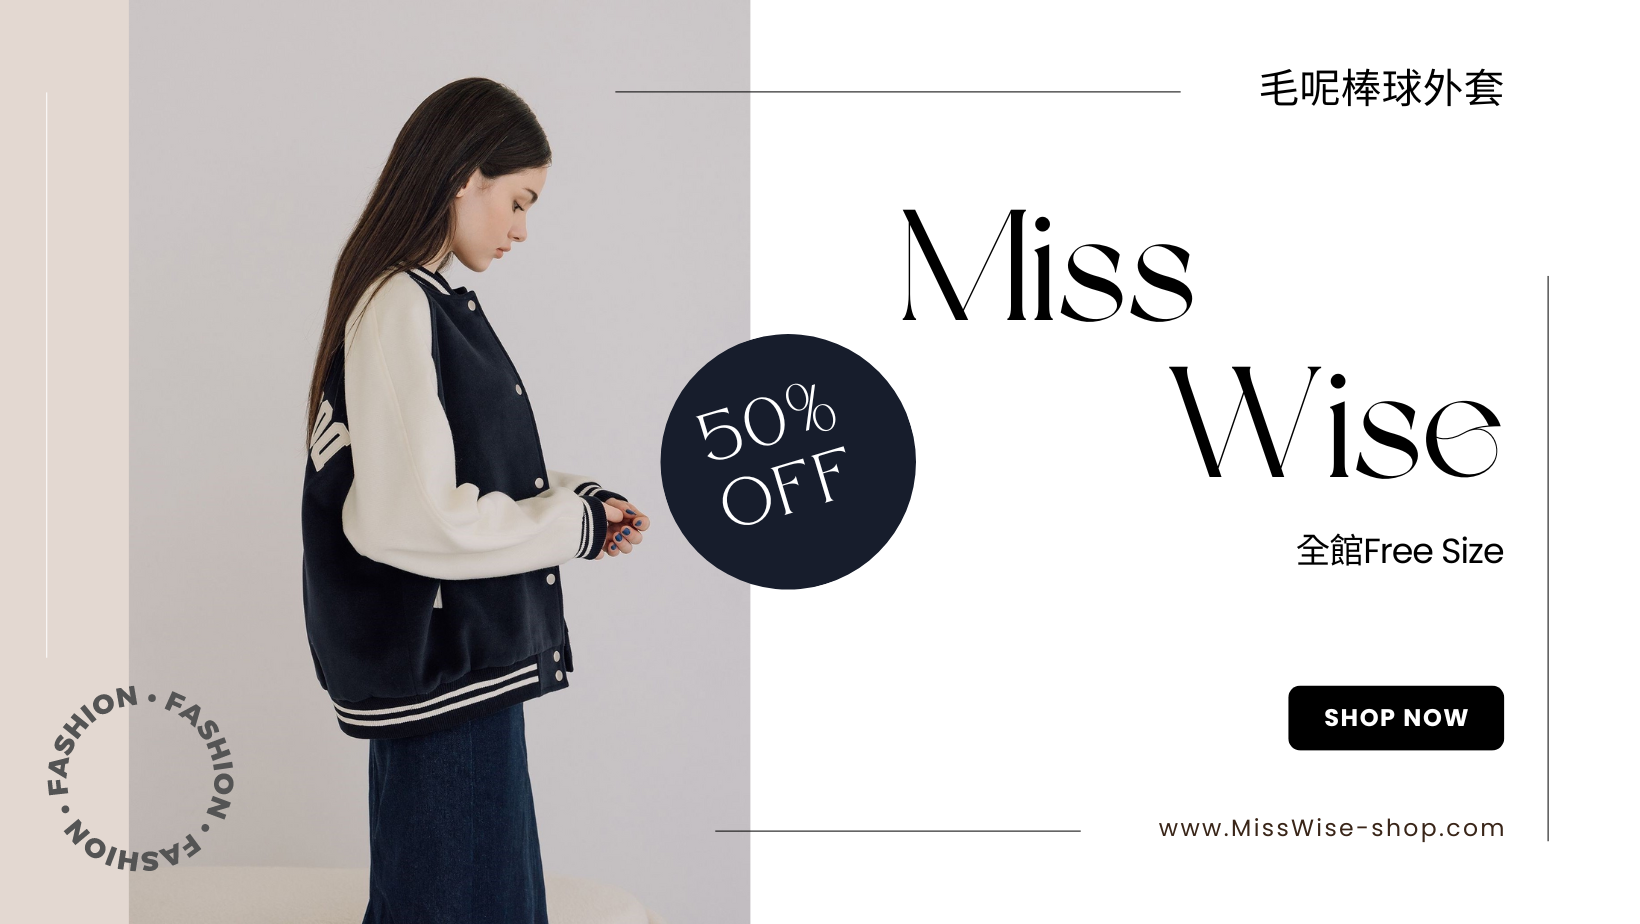
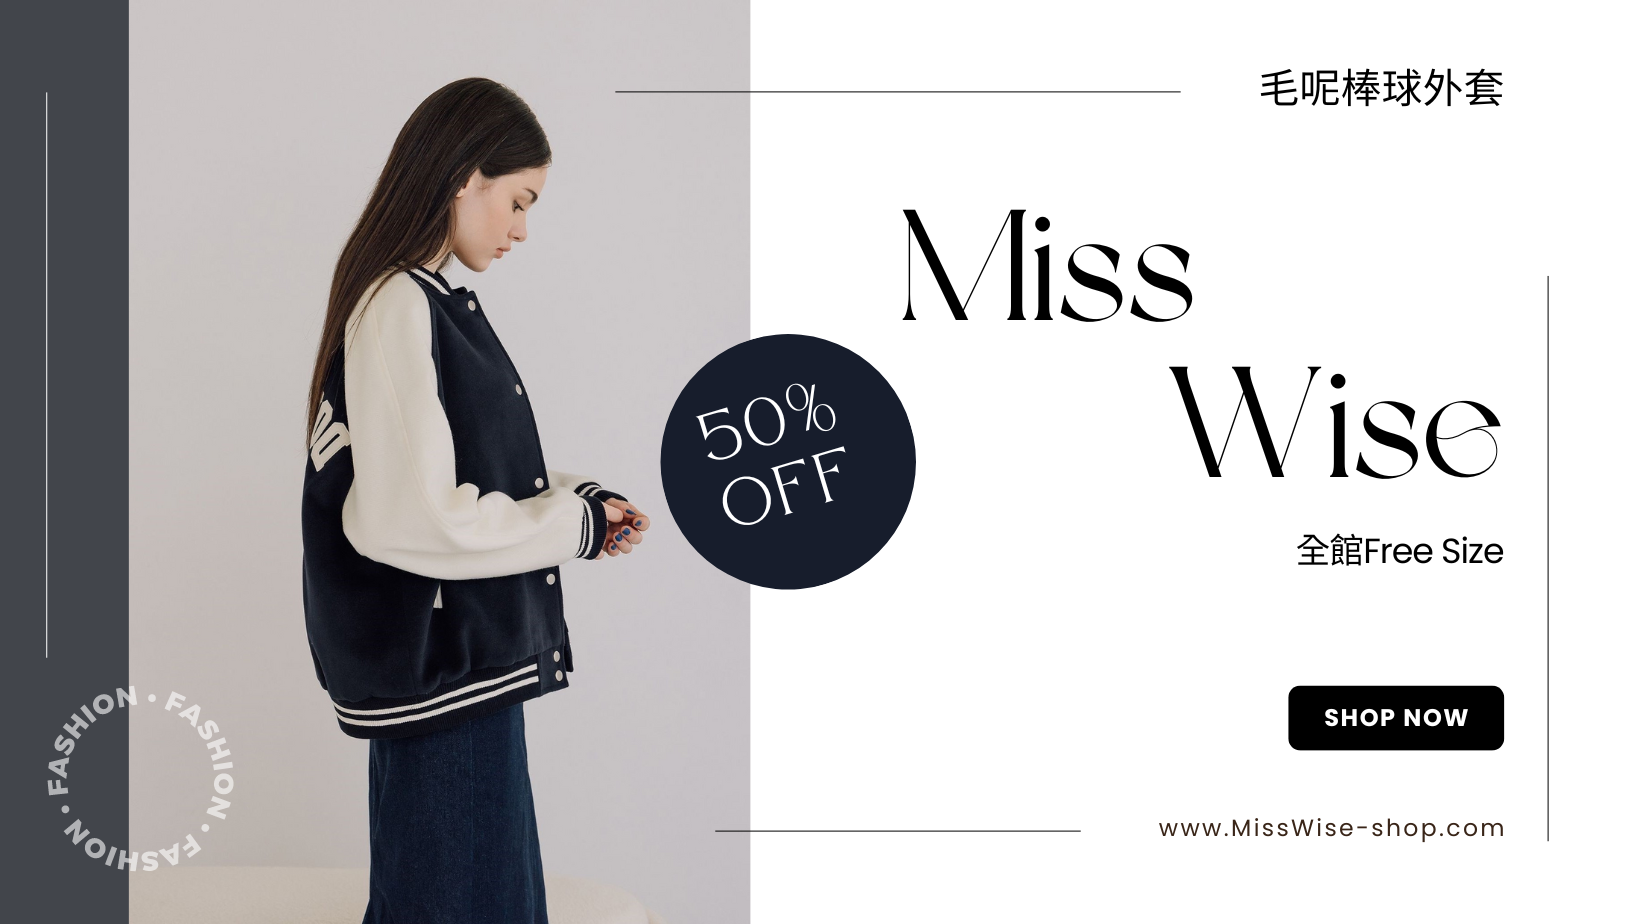
各種修改

Changed region(s): [[0.0, 0.0, 0.1244, 1.0], [0.1244, 0.7879, 0.1555, 0.8788]]

diff --git a/assets/css/index.css b/assets/css/index.css
@@ -67,15 +67,6 @@ body {
     font-family: "標楷體";
     margin: auto;
 }
-.smw { /*賣家Miss Wise*/
-    text-indent: 2cm;
-    text-align: center;
-    font-size: 30px;
-    font-style: italic;
-    color: #463f3a;
-    font-family: "標楷體";
-    margin: auto;
-}
 
 .icon { /*右上角兩圖示*/
     width: 30px;
@@ -131,6 +122,7 @@ body {
 
 
 h2 {
+    color: #86756a;
     text-align: center;
     font-size: 25px;
     font-family: "標楷體";
@@ -360,17 +352,18 @@ a{ /*隱藏超連結底線*/
     display: none;
 }
 
-img {
-    vertical-align: middle;
+.timee{
+    background-color: white;
 }
 
 .mySlides img{
-    height: 530px;
+    height: 500px;
+    width: 820px;
 }
 
 /* Slideshow container */
 .slideshow-container {
-  max-width: 1200px;
+  max-width: 820px;
   position: relative;
   margin: auto;
 }
@@ -619,15 +612,16 @@ h1 { /*購物車*/
     padding-bottom: 20px;
 }
 
-footer{
+footer{ /*底色*/
     background-color: #9d858d;
     width: 100%;
-    height: 50px;
+    height: 70px;
     text-align: center;
     color: rgb(255, 255, 255);
     position: absolute;
     flex: 0 0 auto;
 }
+
 
 .cb{ /*購物車核選方塊*/
     position: relative;
@@ -737,27 +731,6 @@ footer{
     opacity: 1;
 }
 
-.star { /*不會動的星等*/
-    font-size: 0;
-    white-space: nowrap;
-    display: inline-block;
-    width: 150px;
-    height: 30px;
-    overflow: hidden;
-    position: relative;
[1 lines of base64/hex data omitted]
-    background-size: contain;
-}
-.star input {
-    opacity: 0;
-    display: inline-block;
-    width: 20%;
-    height: 100%;
-    margin: 0;
-    padding: 0;
-    z-index: 2;
-    position: relative;
-}
 
 .commentstar{
     text-align: right;
@@ -770,14 +743,14 @@ footer{
 }
 
 .commentsubmit{
-    background-color: #f6cbcb;
+    background-color:#b3a9a0;
     border: 1px #f1f1f1 solid;
     color: white;
     margin: 30px 35px 0px 0px;
     position: relative;
     font-size: 20px;
     border-radius: 5px;
-    left: 40%;
+    left: 43%;
     padding-left: 55px;
     padding-right: 55px;
     cursor: pointer;

diff --git a/center.html b/center.html
@@ -16,17 +16,17 @@
             <section style="display: flex;justify-content: space-between;">
                 <div id="mySidepanel" class="sidepanel">
                     <a href="javascript:void(0)" class="closebtn" onclick="closeNav()">&times;</a>
+                    <a href="about.html">關於我們</a>
                     <a href="index.html">首頁</a>
-                    <a href="#top">上衣</a>
-                    <a href="#coat">外套</a>
-                    <a href="#button">褲子</a>
-                    <a href="#skirt">裙子</a>
-                    <a href="#accessory">配件</a>
+                    <a href="item.html#top">上衣</a>
+                    <a href="item.html#coat">外套</a>
+                    <a href="item.html#button">褲子&裙子</a>
+                    <a href="item.html#accessory">配件</a>
                     <br><br><br><br>
                     <hr>
                     <a href="login.html">登入</a>
                     <a href="enroll.html">註冊</a>
-                    <a href="">登出</a>
+                    <a href="#">登出</a>
                 </div>
 
                 <button class="openbtn" onclick="openNav()">&#9776; </button>

diff --git a/order.html b/order.html
@@ -27,17 +27,17 @@
             <section style="display: flex;justify-content: space-between;">
                 <div id="mySidepanel" class="sidepanel">
                     <a href="javascript:void(0)" class="closebtn" onclick="closeNav()">&times;</a>
+                    <a href="about.html">關於我們</a>
                     <a href="index.html">首頁</a>
-                    <a href="#top">上衣</a>
-                    <a href="#coat">外套</a>
-                    <a href="#button">褲子</a>
-                    <a href="#skirt">裙子</a>
-                    <a href="#accessory">配件</a>
+                    <a href="item.html#top">上衣</a>
+                    <a href="item.html#coat">外套</a>
+                    <a href="item.html#button">褲子&裙子</a>
+                    <a href="item.html#accessory">配件</a>
                     <br><br><br><br>
                     <hr>
                     <a href="login.html">登入</a>
                     <a href="enroll.html">註冊</a>
-                    <a href="">登出</a>
+                    <a href="#">登出</a>
                 </div>
 
                 <button class="openbtn" onclick="openNav()">&#9776; </button>

diff --git a/onpd.html b/onpd.html
@@ -31,10 +31,12 @@
                     }
                 </script>
                 <img class="logo" src="./assets/images/logo.png" alt="">
-                <h1 class="smw">Miss Wise</h1>
+                <h1 class="mw">Miss Wise</h1>
                 <form action="post">
-                    <input type="search" class="siconbox">
-                    <botton><img class="siconser" src="./assets/images/search.png" alt="搜尋"></botton>
+                    <img class="icon" src="./assets/images/me.png" alt="個資">
+                    <img class="icon" src="./assets/images/car.png" alt="購物車">
+                    <input type="search" class="iconbox">
+                    <botton><img class="iconser" src="./assets/images/search.png" alt="搜尋"></botton>
                 </form>
             </section>
     </nav>
@@ -193,6 +195,9 @@
                 </div>
             </a>
         </div>
-    </section>
+    </section><br>
+    <footer id="contact">
+        <p>Copyright &copy Miss Wise <br>瀏覽次數:10<br>From:CYCUIM</p>
+    </footer>
 </body>
 </html>

diff --git a/unpd.html b/unpd.html
@@ -31,10 +31,12 @@
                     }
                 </script>
                 <img class="logo" src="./assets/images/logo.png" alt="">
-                <h1 class="smw">Miss Wise</h1>
+                <h1 class="mw">Miss Wise</h1>
                 <form action="post">
-                    <input type="search" class="siconbox">
-                    <botton><img class="siconser" src="./assets/images/search.png" alt="搜尋"></botton>
+                    <img class="icon" src="./assets/images/me.png" alt="個資">
+                    <img class="icon" src="./assets/images/car.png" alt="購物車">
+                    <input type="search" class="iconbox">
+                    <botton><img class="iconser" src="./assets/images/search.png" alt="搜尋"></botton>
                 </form>
             </section>
     </nav>

diff --git a/sellerlog.html b/sellerlog.html
@@ -32,10 +32,12 @@
                     }
                 </script>
                 <img class="logo" src="./assets/images/logo.png" alt="">
-                <h1 class="smw">登入</h1>
+                <h1 class="mw">登入</h1>
                 <form action="post">
-                    <input type="search" class="siconbox">
-                    <botton><img class="siconser" src="./assets/images/search.png" alt="搜尋"></botton>
+                    <img class="icon" src="./assets/images/me.png" alt="個資">
+                    <img class="icon" src="./assets/images/car.png" alt="購物車">
+                    <input type="search" class="iconbox">
+                    <botton><img class="iconser" src="./assets/images/search.png" alt="搜尋"></botton>
                 </form>
             </section>
     </nav>

diff --git a/sellerpd.html b/sellerpd.html
@@ -34,8 +34,10 @@
                     <img class="logo" src="./assets/images/logo.png" alt="">
                     <h1 class="mw">Miss Wise</h1>
                     <form action="post">
-                        <input type="search" class="siconbox">
-                        <botton><img class="siconser" src="./assets/images/search.png" alt="搜尋"></botton>
+                        <img class="icon" src="./assets/images/me.png" alt="個資">
+                        <img class="icon" src="./assets/images/car.png" alt="購物車">
+                        <input type="search" class="iconbox">
+                        <botton><img class="iconser" src="./assets/images/search.png" alt="搜尋"></botton>
                     </form>
                 </section>
         </nav>

diff --git a/sellerunpd.html b/sellerunpd.html
@@ -35,8 +35,10 @@
                     <img class="logo" src="./assets/images/logo.png" alt="">
                     <h1 class="mw">Miss Wise</h1>
                     <form action="post">
-                        <input type="search" class="siconbox">
-                        <botton><img class="siconser" src="./assets/images/search.png" alt="搜尋"></botton>
+                        <img class="icon" src="./assets/images/me.png" alt="個資">
+                        <img class="icon" src="./assets/images/car.png" alt="購物車">
+                        <input type="search" class="iconbox">
+                        <botton><img class="iconser" src="./assets/images/search.png" alt="搜尋"></botton>
                     </form>
                 </section>
         </nav>

diff --git a/sellerunpd1.html b/sellerunpd1.html
@@ -35,8 +35,10 @@
                     <img class="logo" src="./assets/images/logo.png" alt="">
                     <h1 class="mw">Miss Wise</h1>
                     <form action="post">
-                        <input type="search" class="siconbox">
-                        <botton><img class="siconser" src="./assets/images/search.png" alt="搜尋"></botton>
+                        <img class="icon" src="./assets/images/me.png" alt="個資">
+                        <img class="icon" src="./assets/images/car.png" alt="購物車">
+                        <input type="search" class="iconbox">
+                        <botton><img class="iconser" src="./assets/images/search.png" alt="搜尋"></botton>
                     </form>
                 </section>
         </nav>

diff --git a/index.html b/index.html
@@ -52,7 +52,7 @@
             </section>
     </nav>
     <hr class="titlehr"><br>
-    <section id="time"> <!--幻燈片-->
+    <section id="time" class="timee"> <!--幻燈片-->
         <div class="slideshow-container">
             <div class="mySlides fade">
                 <div class="numbertext">1 / 3</div>
@@ -138,7 +138,7 @@
     </main>
 
     <footer id="contact">
-        <p>Copyright &copy Miss Wise</p>
+        <p>Copyright &copy Miss Wise <br>瀏覽次數:10<br>From:CYCUIM</p>
     </footer>
 </body>
 </html>

diff --git a/pd1.html b/pd1.html
@@ -267,9 +267,6 @@
             </div>
     </section>
     </main>
-    <footer>
-        <p>Copyright &copy Miss Wise</p>
-    </footer>
 </body>
 
 </html>
